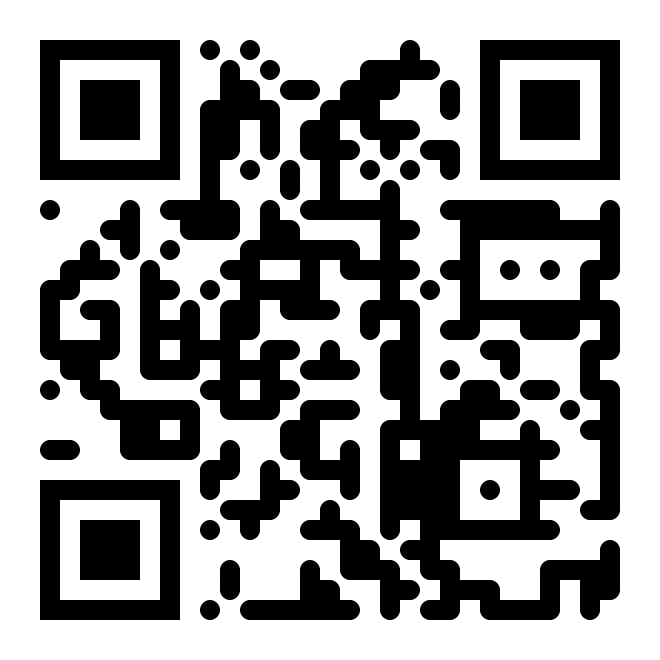
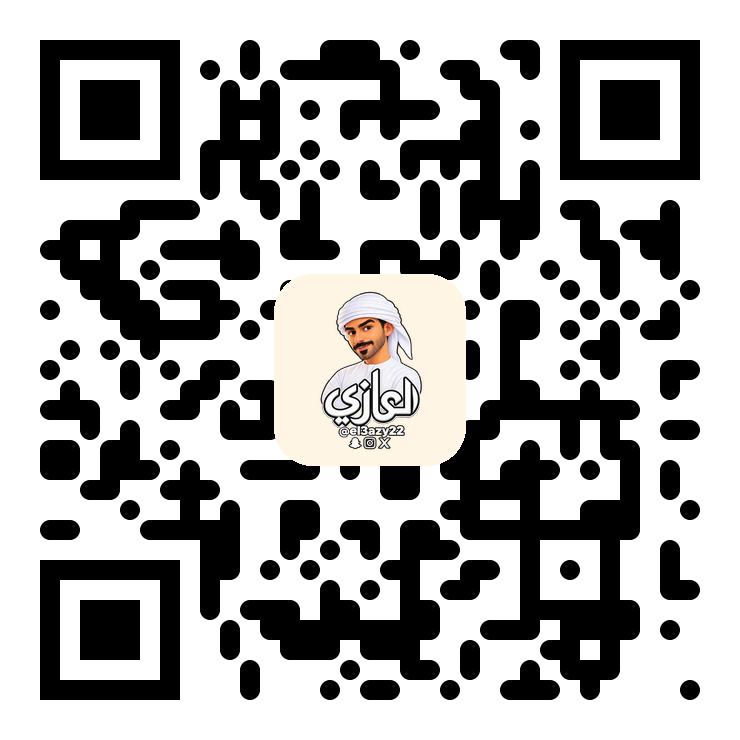
باركود بشعار العازي في النص آخر كل صفحة (البوابة، منو اللاعب، اختار تشكيلتك) وفي نهاية الفيديو
Claude-Session: https://claude.ai/code/session_01WF1Y1LqBhHSiW1AL4PoUYD

diff --git a/index.html b/index.html
@@ -76,6 +76,7 @@ footer a{color:var(--gold);text-decoration:none;font-weight:600}
   <div><b>دوري التوقعات <span class="badge">قريباً</span></b><span class="d">توقّع نتايج الجولة ونافس الجماهير في ترتيب أسبوعي</span></div>
 </div>
 
+<div style="text-align:center;margin:26px auto 8px"><img src="assets/qr/portal.png" alt="باركود" width="132" height="132" style="border-radius:16px;border:2px solid #D7B465;background:#FFF5E5;display:block;margin:0 auto"><div style="font-size:12.5px;color:#D7B465;font-weight:600;margin-top:8px">صوّر الباركود وشارك المنصة</div></div>
 <footer>
   <div style="font-size:14px;opacity:.9;margin-bottom:4px">مجانية ومن غير تسجيل</div>
   منصة جماهيرية غير رسمية من <a href="https://x.com/el3azy22" target="_blank" rel="noopener" dir="ltr">@el3azy22</a>

diff --git a/mano/index.html b/mano/index.html
@@ -181,6 +181,7 @@ footer a{color:inherit}
 
   <main id="app"><div class="loading">لحظة...</div></main>
 
+<div style="text-align:center;margin:26px auto 8px"><img src="../assets/qr/mano.png" alt="باركود" width="132" height="132" style="border-radius:16px;border:2px solid #D7B465;background:#FFF5E5;display:block;margin:0 auto"><div style="font-size:12.5px;color:#D7B465;font-weight:600;margin-top:8px">صوّر الباركود وتحدّى الشباب</div></div>
   <footer>
     لعبة جماهيرية غير رسمية من <a href="https://x.com/el3azy22" target="_blank" rel="noopener">@el3azy22</a>
   </footer>

diff --git a/tashkila/index.html b/tashkila/index.html
@@ -155,6 +155,7 @@ footer{position:fixed;left:0;right:0;bottom:12px;text-align:center;font-size:13p
     <div class="note" id="note" hidden></div>
   </div>
 
+<div style="text-align:center;margin:26px auto 8px"><img src="../assets/qr/tashkila.png" alt="باركود" width="132" height="132" style="border-radius:16px;border:2px solid #D7B465;background:#FFF5E5;display:block;margin:0 auto"><div style="font-size:12.5px;color:#D7B465;font-weight:600;margin-top:8px">صوّر الباركود وشارك الصفحة</div></div>
   <footer>@el3azy22</footer>
 </div>
 

diff --git a/_tools/make_qr.py b/_tools/make_qr.py
@@ -1,0 +1,13 @@
+# باركود بشعار العازي في النص: python3 make_qr.py URL out.png
+import sys,qrcode
+from PIL import Image,ImageDraw
+from qrcode.image.styledpil import StyledPilImage
+from qrcode.image.styles.moduledrawers import RoundedModuleDrawer
+url,out=sys.argv[1],sys.argv[2]
+q=qrcode.QRCode(error_correction=qrcode.constants.ERROR_CORRECT_H,box_size=20,border=2);q.add_data(url);q.make()
+im=q.make_image(image_factory=StyledPilImage,module_drawer=RoundedModuleDrawer(),back_color=(255,245,229),front_color=(7,29,43)).convert('RGBA')
+W=im.size[0];s=int(W*0.26);pad=int(s*0.08)
+logo=Image.open('/home/claude/el3azy22.github.io/mano/assets/logo.png').convert('RGBA');logo.thumbnail((s-2*pad,s-2*pad),Image.LANCZOS)
+bg=Image.new('RGBA',(s,s),(0,0,0,0));d=ImageDraw.Draw(bg);d.rounded_rectangle([0,0,s-1,s-1],radius=s//5,fill=(255,245,229,255))
+bg.paste(logo,((s-logo.size[0])//2,(s-logo.size[1])//2),logo)
+im.paste(bg,((W-s)//2,(W-s)//2),bg);im.convert('RGB').save(out,optimize=True);print(out,im.size)
